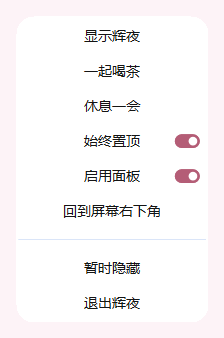
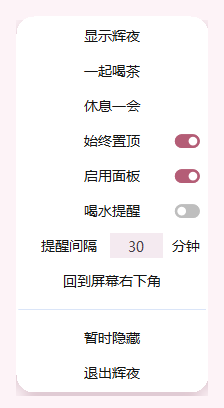
refresh README screenshots with the water state and current panel/menu
Regenerate the five-state strip, the panel, and the context menu from the current build so they match the tray-menu water settings and the slider-only footer.

diff --git a/README.md b/README.md
@@ -13,7 +13,7 @@
 </div>
 
 <p align="center">
-  <img src="docs/states.png" width="880" alt="辉夜的四种状态：待机、摸摸头、一起喝茶、休息中（茶会面板展开）">
+  <img src="docs/states.png" width="880" alt="辉夜的五种状态：待机、摸摸头、一起喝茶、休息中、喝水提醒（茶会面板展开）">
 </p>
 
 ## 快速开始
